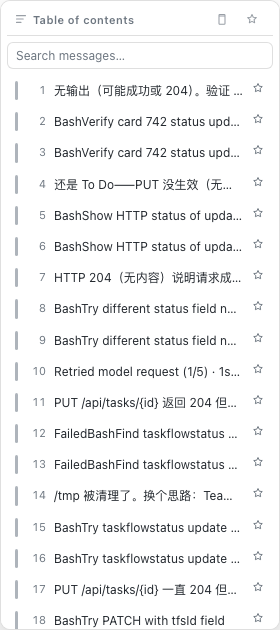
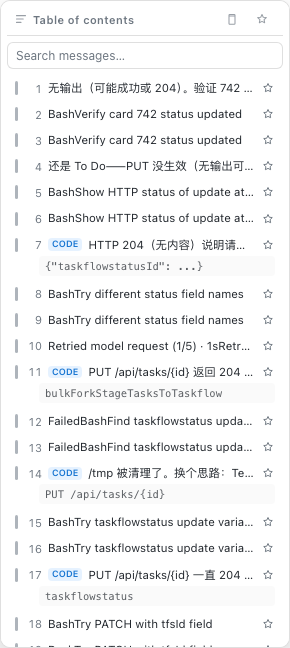
feat: add code and tool preview drawers in outline popover
- add code, tool call, and error extraction for message outline entries
- add preview drawers under outline items for quick inspection
- sync docs in zh/en/es and bump version to 0.1.8

diff --git a/src/client/TocBar.tsx b/src/client/TocBar.tsx
@@ -19,6 +19,8 @@ export interface TocItem {
   el: HTMLElement
   /** 消息特征标签（code / tool / error）。 */
   tag?: 'code' | 'tool' | 'error'
+  /** 提取的代码或工具预览内容。 */
+  preview?: string
 }
 
 const STYLE = `
@@ -48,30 +50,34 @@ const STYLE = `
 .dsh-toc-dot:last-child { margin-bottom:auto; }
 
 /* 悬停展开的目录列表 */
-.dsh-toc-pop { position:absolute; right:calc(100% + 10px); top:-10px; width:280px;
-  max-height:70vh; overflow-y:auto; background:var(--toc-bg); border:1px solid var(--toc-border);
+.dsh-toc-pop { position:absolute; right:calc(100% + 10px); top:-10px; width:290px;
+  max-height:72vh; overflow-y:auto; background:var(--toc-bg); border:1px solid var(--toc-border);
   border-radius:10px; box-shadow:0 12px 32px rgba(0,0,0,0.2); padding:6px; }
 .dsh-toc-pop .head { display:flex; align-items:center; gap:6px; padding:4px 8px 8px;
   font-size:11px; color:var(--toc-muted); font-weight:600; letter-spacing:0.4px;
   border-bottom:1px solid var(--toc-border); margin-bottom:6px; }
 .dsh-toc-pop .head svg { opacity:0.7; }
-.dsh-toc-item { display:flex; align-items:flex-start; gap:8px; padding:6px 8px;
+.dsh-toc-item { display:flex; flex-direction:column; gap:3px; padding:5px 8px;
   border-radius:6px; cursor:pointer; font-size:12px; color:var(--toc-fg); }
 .dsh-toc-item:hover { background:var(--toc-hover); }
 .dsh-toc-item.current { background:var(--toc-hover); }
-.dsh-toc-item .bar { flex:none; width:3px; align-self:stretch; border-radius:2px;
+.dsh-toc-item-row { display:flex; align-items:center; gap:6px; }
+.dsh-toc-item .bar { flex:none; width:3px; height:14px; border-radius:2px;
   background:var(--toc-other); opacity:0.7; }
 .dsh-toc-item .bar.user { background:var(--toc-user); }
 .dsh-toc-item .bar.assistant { background:var(--toc-assistant); }
-.dsh-toc-item .num { flex:none; min-width:20px; text-align:right; color:var(--toc-muted);
-  font-size:11px; line-height:1.6; font-variant-numeric:tabular-nums; }
-.dsh-toc-badge { flex:none; font-size:9.5px; font-weight:600; padding:1px 4px; border-radius:4px;
-  line-height:1.4; text-transform:uppercase; }
+.dsh-toc-item .num { flex:none; min-width:18px; text-align:right; color:var(--toc-muted);
+  font-size:11px; font-variant-numeric:tabular-nums; }
+.dsh-toc-badge { flex:none; font-size:9px; font-weight:600; padding:1px 4px; border-radius:4px;
+  line-height:1.2; text-transform:uppercase; }
 .dsh-toc-badge.code { background:rgba(88,166,255,0.15); color:var(--toc-accent); }
 .dsh-toc-badge.tool { background:rgba(210,153,34,0.15); color:#d29922; }
 .dsh-toc-badge.error { background:rgba(248,81,73,0.15); color:#f85149; }
 .dsh-toc-item .text { flex:1; min-width:0; white-space:nowrap; overflow:hidden;
-  text-overflow:ellipsis; line-height:1.6; }
+  text-overflow:ellipsis; line-height:1.4; font-size:11.5px; }
+.dsh-toc-preview-box { font-size:10.5px; opacity:0.75; font-family:ui-monospace,SFMono-Regular,Menlo,monospace;
+  background:rgba(128,128,128,0.06); padding:4px 6px; border-radius:4px; margin-left:24px;
+  white-space:pre-wrap; word-break:break-all; max-height:48px; overflow:hidden; }
 .dsh-toc-empty { padding:10px 8px; font-size:12px; color:var(--toc-muted); }
 .dsh-toc-search { width:100%; padding:5px 8px; margin-bottom:6px; font-size:12px;
   color:var(--toc-fg); background:var(--toc-bg); border:1px solid var(--toc-border);
@@ -302,23 +308,26 @@ export function TocBar(props: { scrollEl: HTMLElement; items: TocItem[] }): Reac
               <div key={item.key}
                 className={`dsh-toc-item${item.key === currentKey ? ' current' : ''}`}
                 title={t('toc.jump')} onClick={() => jumpTo(item)}>
-                <span className={`bar ${DOT_COLOR[item.kind] ?? ''}`} />
-                <span className="num">{index + 1}</span>
-                {item.tag ? <span className={`dsh-toc-badge ${item.tag}`}>{item.tag}</span> : null}
-                <span className="text">{item.text || item.key}</span>
-                <button type="button"
-                  className={`dsh-toc-star${starred.has(item.key) ? ' on' : ''}`}
-                  title={starred.has(item.key) ? t('toc.starRemove') : t('toc.starAdd')}
-                  onClick={(event) => {
-                    event.stopPropagation()
-                    toggleStar(item.key)
-                  }}>
-                  <svg viewBox="0 0 16 16" width="12" height="12"
-                    fill={starred.has(item.key) ? 'currentColor' : 'none'}
-                    stroke="currentColor" strokeWidth="1.3" strokeLinejoin="round" aria-hidden="true">
-                    <path d="M8 2l1.7 3.6 4 .5-2.9 2.8.7 4L8 11.2 4.5 12.9l.7-4L2.3 6.1l4-.5z" />
-                  </svg>
-                </button>
+                <div className="dsh-toc-item-row">
+                  <span className={`bar ${DOT_COLOR[item.kind] ?? ''}`} />
+                  <span className="num">{index + 1}</span>
+                  {item.tag ? <span className={`dsh-toc-badge ${item.tag}`}>{item.tag}</span> : null}
+                  <span className="text">{item.text || item.key}</span>
+                  <button type="button"
+                    className={`dsh-toc-star${starred.has(item.key) ? ' on' : ''}`}
+                    title={starred.has(item.key) ? t('toc.starRemove') : t('toc.starAdd')}
+                    onClick={(event) => {
+                      event.stopPropagation()
+                      toggleStar(item.key)
+                    }}>
+                    <svg viewBox="0 0 16 16" width="12" height="12"
+                      fill={starred.has(item.key) ? 'currentColor' : 'none'}
+                      stroke="currentColor" strokeWidth="1.3" strokeLinejoin="round" aria-hidden="true">
+                      <path d="M8 2l1.7 3.6 4 .5-2.9 2.8.7 4L8 11.2 4.5 12.9l.7-4L2.3 6.1l4-.5z" />
+                    </svg>
+                  </button>
+                </div>
+                {item.preview ? <div className="dsh-toc-preview-box">{item.preview}</div> : null}
               </div>
             ))
           )}

diff --git a/src/client/index.ts b/src/client/index.ts
@@ -76,12 +76,20 @@ export function apply(ctx: TocClientContext): void {
           seen.add(key)
           // 探测消息特征（是否含代码块 / 工具调用 / 错误）
           let tag: TocItem['tag']
-          if (el.querySelector('pre, code, [class*=code], [class*=Code]')) {
+          let preview: string | undefined
+          const codeEl = el.querySelector<HTMLElement>('pre, code, [class*=code], [class*=Code]')
+          const toolEl = el.querySelector<HTMLElement>('[data-tool-call], [class*=tool], [class*=Tool]')
+          const errEl = el.querySelector<HTMLElement>('[class*=error], [class*=Error], [class*=danger], [class*=Danger]')
+
+          if (codeEl) {
             tag = 'code'
-          } else if (el.querySelector('[data-tool-call], [class*=tool], [class*=Tool]')) {
+            preview = (codeEl.textContent ?? '').slice(0, 100).trim()
+          } else if (toolEl) {
             tag = 'tool'
-          } else if (el.querySelector('[class*=error], [class*=Error], [class*=danger], [class*=Danger]')) {
+            preview = (toolEl.textContent ?? '').slice(0, 80).trim()
+          } else if (errEl) {
             tag = 'error'
+            preview = (errEl.textContent ?? '').slice(0, 80).trim()
           }
           next.push({
             key,
@@ -89,6 +97,7 @@ export function apply(ctx: TocClientContext): void {
             text: (el.textContent ?? '').replace(/\s+/g, ' ').trim().slice(0, SUMMARY_MAX),
             el,
             tag,
+            preview,
           })
         })
         const changed =
